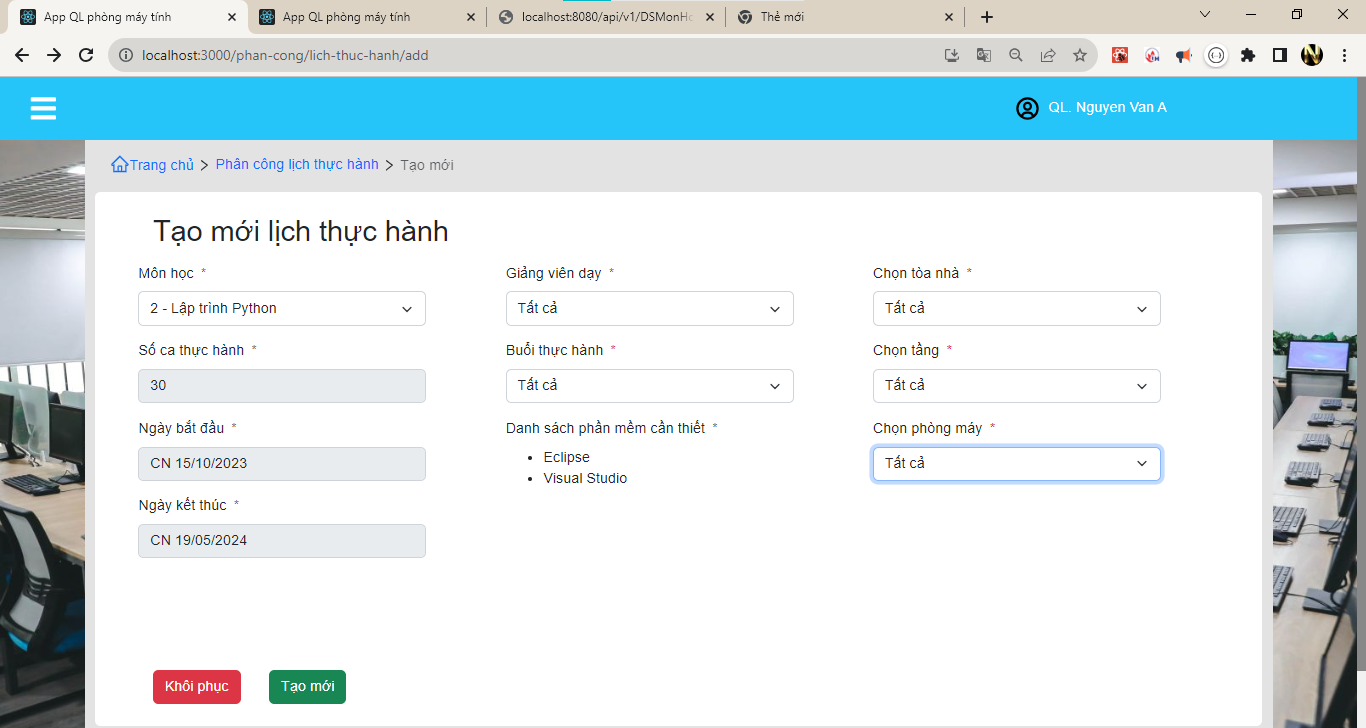
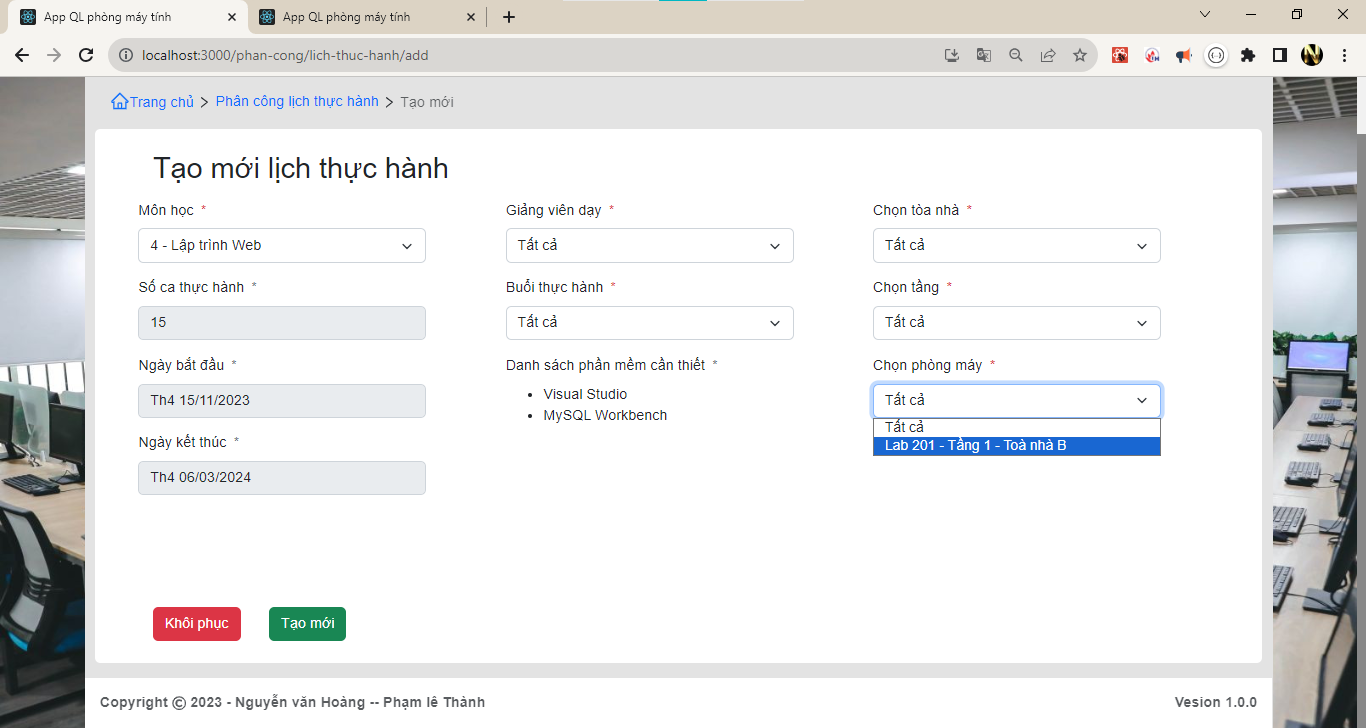
Ql Lich TH finish form add lich TH

diff --git a/src/redux/reducers/lichThucHanhReducer.jsx b/src/redux/reducers/lichThucHanhReducer.jsx
@@ -198,25 +198,27 @@ export default lichThucHanhReducer.reducer;
  * 2. lays DS ca cuar mon hoc (theo ma)
  * 3. thif dsCa cua mon hoc nào không có gtri thì dưa vào arrData_MH
  * arrData_MH: ds môn học chua co ca
- * @param {*} dispatch 
+ * @param {*} dispatch
  */
 export const setArrMonHoc_CaThucHanhApi = async (dispatch) => {
   try {
     let result_dsMonHoc = await http.get("/DSMonHoc");
 
-    let arrData_MH = result_dsMonHoc.data.filter(async (item) => {
-      let check = 1;
-
+    let arrData_MH = [];
+    result_dsMonHoc.data.forEach(async (item) => {
       let result_CaTH_IdMonHoc = await http.get(
         `/DSCaThucHanhTheoMonHoc/${item.maMon}`
       );
 
-      return (check = 1);
+      if (result_CaTH_IdMonHoc.data.length === 0) {
+        arrData_MH.push(item);
+      }
     });
-    console.log(
-      "🚀 ~ file: lichThucHanhReducer.jsx:205 ~ constsetArrMonHoc_CaThucHanhApi= ~ arrData_MH:",
-      arrData_MH
-    );
+
+    //
+    setTimeout(() => {
+      dispatch(setArrMonHoc_CaThucHanhAction([...arrData_MH]));
+    }, 2000);
   } catch (error) {
     console.log("🚀 ~ file: lichThucHanhReducer.jsx:200 ~ error:", error);
   }

diff --git a/src/components/layout/Add/FormAddLichThucHanh.jsx b/src/components/layout/Add/FormAddLichThucHanh.jsx
@@ -61,9 +61,7 @@ export default function FormAddLichThucHanh() {
     if (arrPhongMay.length === 0) {
       dispatch(getAllPhongMayApi);
     }
-    if(arrMonHoc_CaTH.length === 0) {
-      dispatch(setArrMonHoc_CaThucHanhApi)
-    }
+      
     if (arrMonHoc.length === 0) {
       dispatch(getAllMonHoc);
     }
@@ -71,9 +69,9 @@ export default function FormAddLichThucHanh() {
       dispatch(getAllGiaoVienApi);
     }
     // update arrPhongByMonHoc - gia tri ban dau là toàn bộ arrPhong
-    if (arrPhongByMonHoc.length === 0) {
-      dispatch(getAllDsPhongHocInMonHoc);
-    }
+    dispatch(getAllDsPhongHocInMonHoc);
+    // update Gia trij mon hoc chuaw co ca thuc hanh
+    dispatch(setArrMonHoc_CaThucHanhApi)
 
     // setErrCaTH({ ...errCaTH });
   }, []);
@@ -381,7 +379,7 @@ export default function FormAddLichThucHanh() {
   //
   const renderSelectMonHoc = () => {
     let { valueSelMonHoc } = objCaThucHanh.current;
-    return arrMonHoc.map((item, index) => {
+    return arrMonHoc_CaTH?.map((item, index) => {
       return (
         <option
           key={index}

diff --git a/src/pages/PageQuanLy/PageQLTang.jsx b/src/pages/PageQuanLy/PageQLTang.jsx
@@ -144,7 +144,10 @@ const PageQLTang = () => {
         style={{ height: "100vh" }}
       >
         <div style={{ height: "80vh" }}>
-          
+          {/*  */}
+          <div style={{ height: "8vh" }}>
+            <NavTab itemLink={{ arrLinkNavTab, chucNang: "Danh sách" }} />
+          </div>
           {/* table data */}
           <div className="bg-white rounded p-3" style={{ height: "82vh" }}>
             {/* Phần top với tiêu đề và thanh tìm kiếm - btn thêm */}

diff --git a/README.md b/README.md
@@ -137,6 +137,9 @@
     - dựa theo controller DSMonHocPhanMem/maMon co thể lấy số lượng ca TH dã tạo so sanh vs so buổi dể khogno cho tạo ca TH mới nữa
     - getDSPhong_trungPM_MonHocApi() (chua hiểu giá tri ở trong) -> show PM môn hoc -> 
     - 
+
+    -- 28-11 stop : setArrMonHoc_CaThucHanhApi() - reducer
+
     #
     - ComponentModalGhiChu: err check box trùng value (mavalue) - lấy thông tin - xác nhận gửi
         + api thong báo - gửi ghi chú cùng thietbi bị lỗi  lưu data
